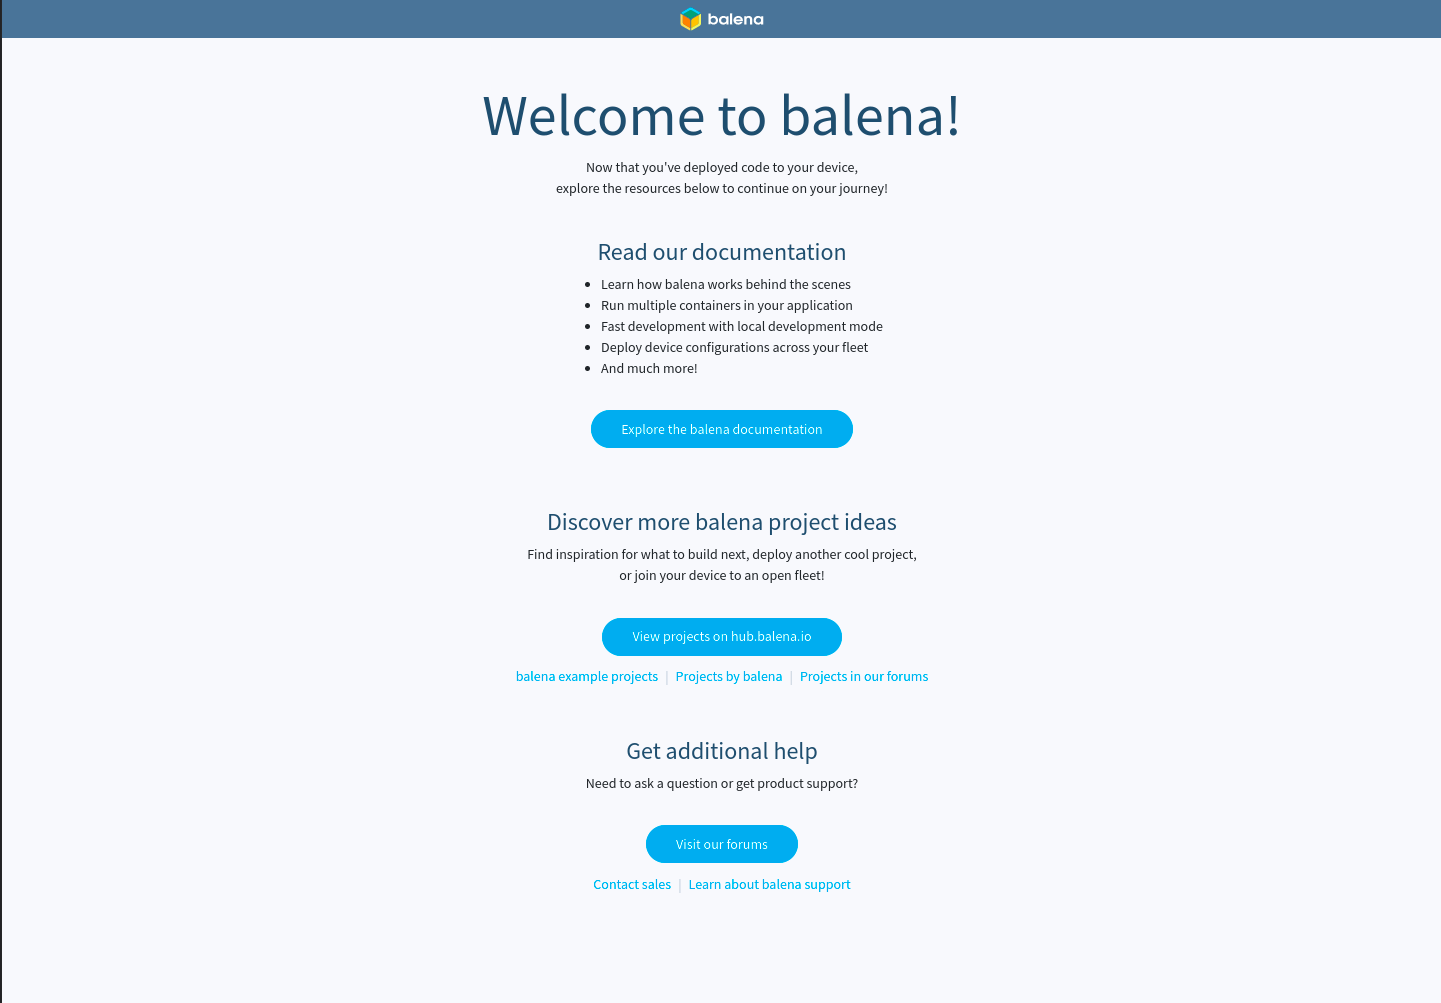
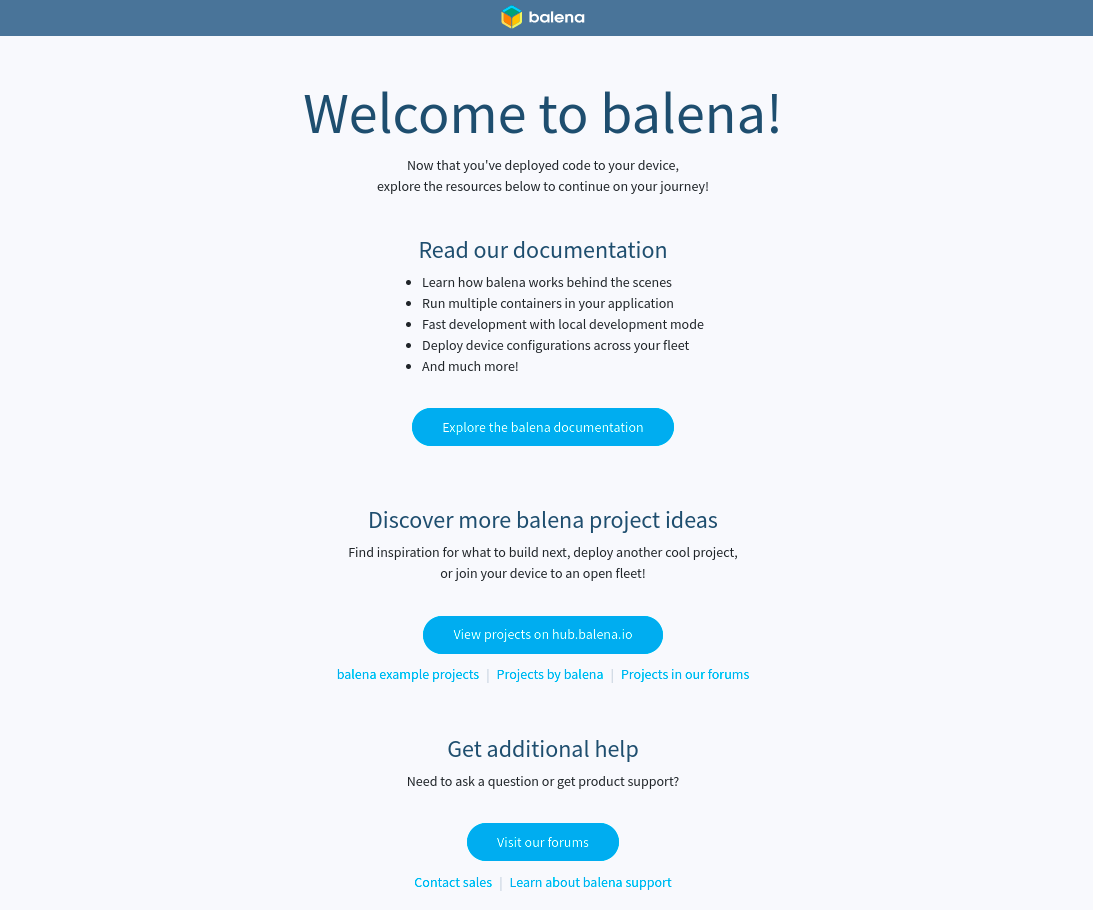
Fix fleet-types URL

diff --git a/pages/learn/getting-started.md b/pages/learn/getting-started.md
@@ -125,7 +125,7 @@ You'll know your code has been successfully compiled and built when our friendly
 [Success]    Successfully generated image deltas
 [Info]       Uploading images
 [Success]    Successfully uploaded images
-[Info]       Built on arm05
+[Info]       Built on builder05
 [Success]    Release successfully created!
 [Info]       Release: c0c593803588a304c173124827d96b99 (id: 2186339)
 [Info]       ┌────────────────────┬────────────┬────────────┐
@@ -172,7 +172,7 @@ Now, let's try making some changes to this project and testing them right on the
 
 Activate local mode on the device via the dashboard.
 
-![Enable local mode](/img/local-mode/enable-local-mode.png)
+<img alt="Enable Local Mode" src="/img/local-mode/enable-local-mode.png" width="60%">
 
 Once enabled, you can now use `balena push` again, but this time we will push directly to the local IP address of the device obtained via the dashboard.
 

diff --git a/shared/getting-started/postPush/_default.md b/shared/getting-started/postPush/_default.md
@@ -6,4 +6,4 @@ To give your device a public URL, click the _Public Device URL_ toggle on the de
 
 Follow the URL to view the welcome page with additional resources. Alternatively, you can point your browser to your device's local IP address to access the server running on your device. You can find the device's IP address on the device dashboard page. This is what you should be seeing. 
 
-<img alt="Success screen 1" src="/img/getting-started/success.png" width="80%">
+<img alt="Success screen 1" src="/img/getting-started/success.png" width="60%">
